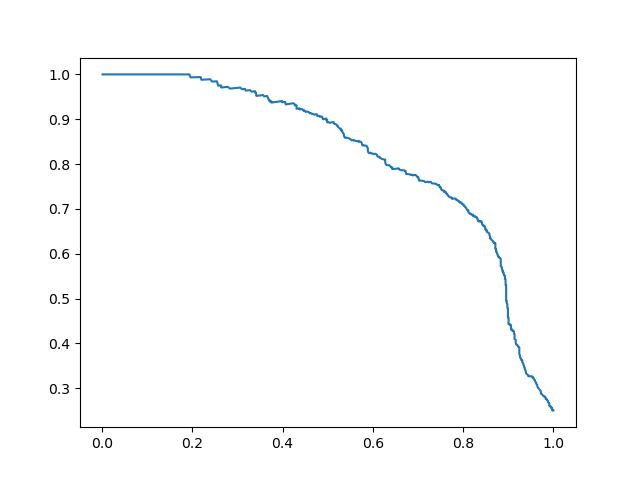
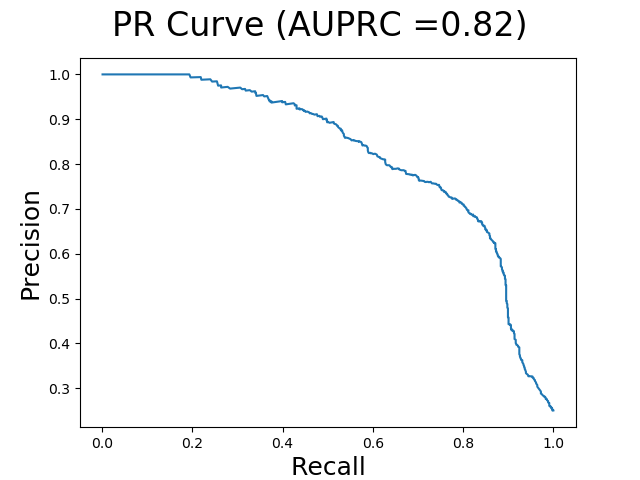
Implement calculating the auprc value for pr pairs in PR Curve

diff --git a/2-2 Precision-Recall (PR) Curve/PRC_calculator.py b/2-2 Precision-Recall (PR) Curve/PRC_calculator.py
@@ -100,16 +100,27 @@ def calcPrecisionRecallPairs(obs,thresholdStep):
     """ Calculates the precision/recall pairs for the provided observations and threshold step """
     threshold = thresholdStep
     precisionRecallThresholdList = []
+
     while threshold<1:
         obs = setPredictions(obs,threshold)
         TP, FP, FN, TN = calcParameters(obs)
         precision = np.float64(TP) / (TP + FP)
         recall = np.float64(TP) / (TP + FN)
-        precisionRecallThresholdList.append((precision,recall,threshold))
+        if(recall>=0 and precision>=0):
+            precisionRecallThresholdList.append((precision,recall,threshold))
         threshold += thresholdStep
 
     return precisionRecallThresholdList
-        
+  
+def calcAUPRC(prPairs):
+    """ Calculates the the auprc value for the precision/recall pairs """
+    sum = 0
+    start,stop = 2,len(prPairs)-1
+    for i,(prec, rec, tr) in enumerate(prPairs[:stop-start],start):
+        (prevPrec, prevRec, tr) = prPairs[i-1]
+        sum += (rec-prevRec)*(prec+prevPrec)/2
+    return sum
+
 
 ################################################
 ###   Start Precision-Recall Curve Script    ###
@@ -127,6 +138,9 @@ obs.sort(key=itemgetter(0))
 # Calculate the precision/recall pairs
 prPairs = calcPrecisionRecallPairs(obs,0.001)
 
+# Calculate AUPRC
+auprc = calcAUPRC(prPairs)
+
 # Get the current Axes instance on the current figure
 ax = plt.gca()
 #ax.set_xticks(range(0,1,0.05))
@@ -136,5 +150,7 @@ ax = plt.gca()
 Xs = list(map(lambda tup: tup[1],prPairs))
 Ys = list(map(lambda tup: tup[0],prPairs))
 plt.plot(Xs, Ys)
+plt.suptitle('PR Curve (AUPRC =' + "{0:.2f}".format(auprc) + ')', fontsize=24)
+plt.xlabel('Recall', fontsize=18)
+plt.ylabel('Precision', fontsize=18)
 plt.savefig("PRC.png")
-
